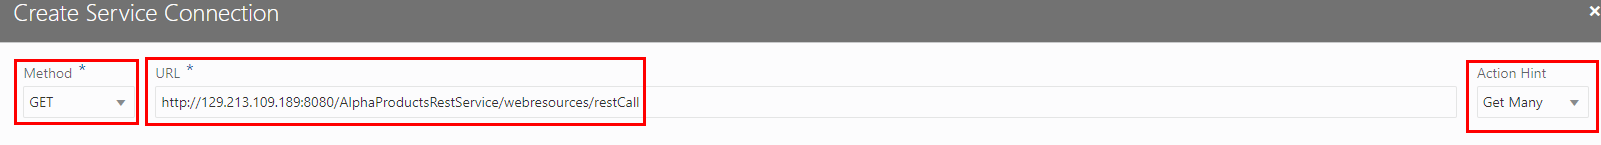
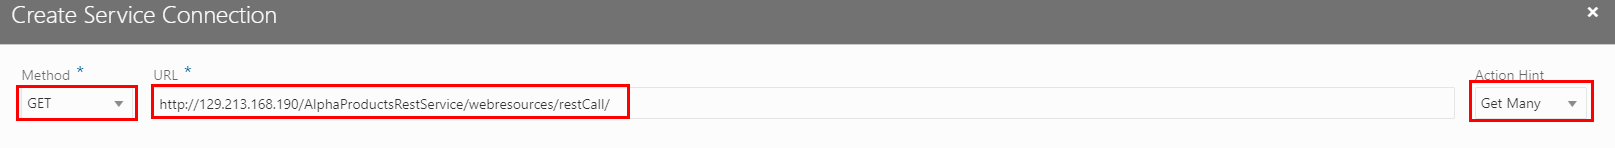
Updates to Lab

diff --git a/lab-guides/LabGuide400.md b/lab-guides/LabGuide400.md
@@ -70,7 +70,7 @@ Service Connections are REST endpoints pointing to various services. In this ste
 
   ![](images/400/14.PNG)
 
-- Leave the Method to **GET**. From Lab 300 **Copy and Paste the URL** used to test the REST endpoint that retrieved all of the AlphaOffice Product Catalog records. (In this example:  `http://129.213.109.189:8080/AlphaProductsRestService/webresources/restCall`) into the URL field. Leave the Action Hint at **Get Many**:
+- Leave the Method to **GET**. From Lab 300 **Copy and Paste the URL** used to test the REST endpoint that retrieved all of the AlphaOffice Product Catalog records. (In this example:  `http://129.213.168.190/AlphaProductsRestService/webresources/restCall`) into the URL field. Leave the Action Hint at **Get Many**:
 
   ![](images/400/15.PNG)
 
@@ -208,9 +208,15 @@ Service Connections are REST endpoints pointing to various services. In this ste
 
   ![](images/400/21.PNG)
 
-- All of the endpoints have now been created and tested.
+- All of the endpoints have now been created and tested:
 
   ![](images/400/35.PNG)
+
+- Click the **Authentication** tab and then select the **Define Authentication** checkbox and set it to **none**: 
+
+  ![](images/400/35-2.PNG)
+
+  ![](images/400/35-4.PNG)
 
 ## Create the Mobile Application
 
@@ -644,6 +650,10 @@ In this step we will define the Types and Variables used within the page.
 
 ### **STEP 8**: Create Page Layout
 
+- Click the **Designer icon** to get back to the page canvas.
+
+  ![](images/400/85-7.PNG)
+
 - Now, build out the look and feel of items on this page. First, drag and drop an **Image** item from the Component pane just below the `Mobile Page Template item`.
 
 - Drag and drop a **Form Layout** item **inside** the `Flex Container` in the canvas.
@@ -667,10 +677,6 @@ In this step we will define the Types and Variables used within the page.
   ![](images/400/85.PNG)
 
 ### **STEP 9**: Set Item Properties
-
-- Click the **Designer icon** to get back to the page canvas.
-
-  ![](images/400/85-7.PNG)
 
 - Starting from top of the canvas items to bottom. Select the **Mobile Page Template** item in the Page Structure. Under the General Properties tab set the **Page Title** attribute to:
 
